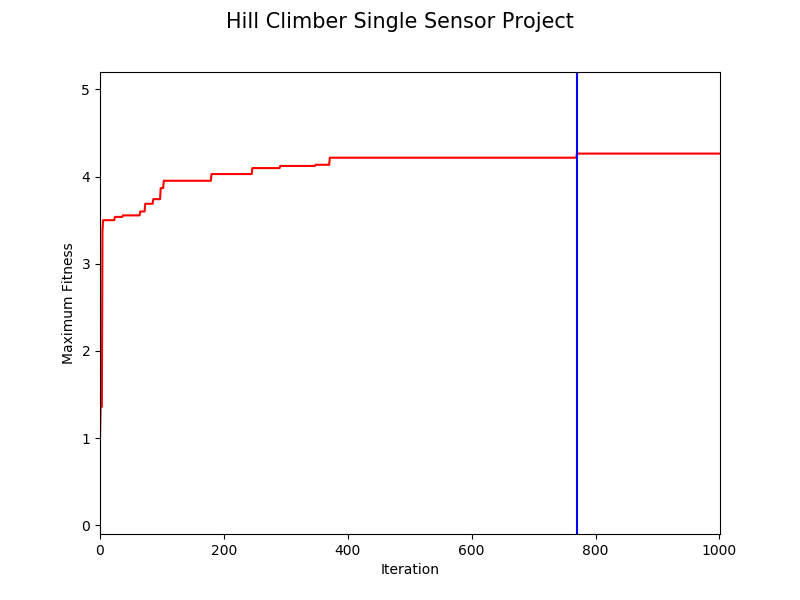
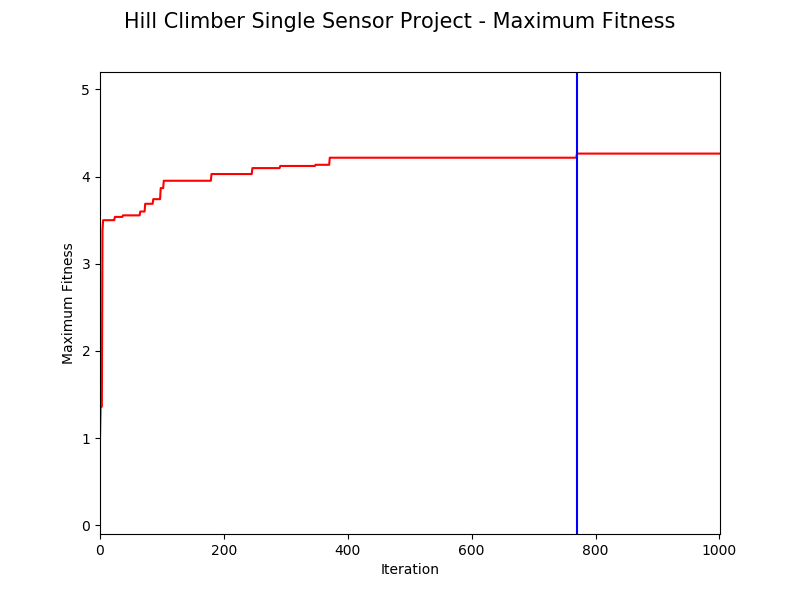
Fitness landscape plots saved for hill climbers 1 & 2 and fitness plot titles more descriptive.

Changed region(s): [[0.1562, 0.0, 0.8438, 0.06]]

diff --git a/hillclimbers/hillclimber4.py b/hillclimbers/hillclimber4.py
@@ -65,7 +65,7 @@ ymin = float(int(np.amin(fitness[:,0])*10))/10.0 - 1.0
 ymax = float(int(np.amax(fitness[:,0])*10))/10.0 + 1.0
  
 fig = plt.figure(1, figsize=(8, 6))
-fig.suptitle('Hill Climber Four Sensors Project', fontsize=15)
+fig.suptitle('Hill Climber Four Sensors Project - Fitness Landscape', fontsize=15)
 panel = fig.add_subplot(111)
 panel.set_xlabel('Genomes -- Synapse Weights')
 panel.set_ylabel('Fitness')
@@ -76,6 +76,7 @@ panel.plot(genomes[:,1], fitness[:,0], '.r', label='w1,4')
 panel.plot(genomes[:,2], fitness[:,0], '.b', label='w2,4')
 panel.plot(genomes[:,3], fitness[:,0], '.g', label='w3,4')
 panel.legend(loc='lower left', title='Genomes', frameon=False)
+plt.savefig("hillclimber4_fitness_landscape.png", format='png')
 plt.show()
 
 # Evolution of maximum fitness.
@@ -91,9 +92,9 @@ ymin = float(int(np.amin(fitness[:,0])*10))/10.0 - 1.0
 ymax = float(int(np.amax(fitness[:,0])*10))/10.0 + 1.0
 
 fig = plt.figure(2, figsize=(8, 6))
-fig.suptitle('Hill Climber Four Sensors Project', fontsize=15)
+fig.suptitle('Hill Climber Four Sensors Project - Maximum Fitness', fontsize=15)
 panel = fig.add_subplot(111)
-panel.set_xlabel('Iteration')
+panel.set_xlabel('Generation')
 panel.set_ylabel('Maximum Fitness')
 panel.set_xlim(0, nlim)
 panel.set_ylim(ymin, ymax)

diff --git a/hillclimbers/hillclimber1.py b/hillclimbers/hillclimber1.py
@@ -61,13 +61,14 @@ ymin = float(int(np.amin(fitness[0,:])*10))/10.0 - 1.0
 ymax = float(int(np.amax(fitness[0,:])*10))/10.0 + 1.0
  
 fig = plt.figure(1, figsize=(8, 6))
-fig.suptitle('Hill Climber Single Sensor Project', fontsize=15)
+fig.suptitle('Hill Climber Single Sensor Project - Fitness Landscape', fontsize=15)
 panel = fig.add_subplot(111)
 panel.set_xlabel('Genome')
 panel.set_ylabel('Fitness')
 panel.set_xlim(xmin, xmax)
 panel.set_ylim(ymin, ymax)
 panel.plot(genomes[0,:], fitness[0,:], '.r')
+plt.savefig("hillclimber1_fitness_landscape.png", format='png')
 plt.show()
 
 # Evolution of maximum fitness.
@@ -83,9 +84,9 @@ ymin = float(int(np.amin(fitness[0,:])*10))/10.0 - 1.0
 ymax = float(int(np.amax(fitness[0,:])*10))/10.0 + 1.0
 
 fig = plt.figure(2, figsize=(8, 6))
-fig.suptitle('Hill Climber Single Sensor Project', fontsize=15)
+fig.suptitle('Hill Climber Single Sensor Project - Maximum Fitness', fontsize=15)
 panel = fig.add_subplot(111)
-panel.set_xlabel('Iteration')
+panel.set_xlabel('Generation')
 panel.set_ylabel('Maximum Fitness')
 panel.set_xlim(0, nlim)
 panel.set_ylim(ymin, ymax)

diff --git a/refactoring/randomSearch.py b/refactoring/randomSearch.py
@@ -6,8 +6,10 @@ from individual import INDIVIDUAL
 import numpy as np
 import matplotlib.pyplot as plt
 
+play_blind = True
+
 tlim = 500
-nlim = 10
+nlim = 1001
 n = [i for i in range(nlim)]
 
 genomes = np.ndarray((1,nlim))
@@ -17,7 +19,7 @@ print(" i      Genome       Fitness ")
 print("---  ------------  ----------")
 for i in range(0,nlim):
     individual = INDIVIDUAL()
-    individual.Evaluate(tlim)
+    individual.Evaluate(tlim, play_blind)
     genomes[0,i] = individual.genome
     fitness[0,i] = individual.fitness
     print("%3d  %12.8f  %9.5f" % (i,genomes[0,i],fitness[0,i]))

diff --git a/quadruped/parallelhillclimber.py b/quadruped/parallelhillclimber.py
@@ -63,7 +63,7 @@ ymax = float(int(np.amax(fitness[:,:])*10))/10.0 + 1.0
 pcols = ['red', 'green', 'blue', 'cyan', 'magenta', 'orange', 'yellow', 'brown', 'gray', 'black']
 
 fig = plt.figure(1, figsize=(8, 6))
-fig.suptitle('Quadruped Parallel Hill Climber Project', fontsize=15)
+fig.suptitle('Quadruped Parallel Hill Climber Project - Maximum Fitness', fontsize=15)
 panel = fig.add_subplot(111)
 panel.set_xlabel('Generation')
 panel.set_ylabel('Maximum Fitness')

diff --git a/quadruped/geneticAlgorithm.py b/quadruped/geneticAlgorithm.py
@@ -64,7 +64,7 @@ ymax = float(int(np.amax(fitness[:,:])*10))/10.0 + 1.0
 pcols = ['red', 'green', 'blue', 'cyan', 'magenta', 'orange', 'yellow', 'brown', 'gray', 'black']
 
 fig = plt.figure(1, figsize=(8, 6))
-fig.suptitle('Quadruped Genetic Algorithm Project', fontsize=15)
+fig.suptitle('Quadruped Genetic Algorithm Project - Maximum Fitness', fontsize=15)
 panel = fig.add_subplot(111)
 panel.set_xlabel('Generation')
 panel.set_ylabel('Maximum Fitness')

diff --git a/refactoring/individual.py b/refactoring/individual.py
@@ -13,9 +13,9 @@ class INDIVIDUAL:
         self.fitness = 0.0
         self.tlim = 0
     
-    def Evaluate(self, tlim):
+    def Evaluate(self, tlim, pb):
         self.tlim = tlim
-        sim = pyrosim.Simulator( play_paused=False, eval_time=tlim)
+        sim = pyrosim.Simulator( play_paused=False, eval_time=tlim, play_blind=pb)
         robot = ROBOT(sim, self.genome)
         sim.start()
         sim.wait_to_finish()

diff --git a/hillclimbers/parallelhillclimber.py b/hillclimbers/parallelhillclimber.py
@@ -60,7 +60,7 @@ ymax = float(int(np.amax(fitness[:,:])*10))/10.0 + 1.0
 pcols = ['red', 'green', 'blue', 'cyan', 'magenta']
 
 fig = plt.figure(1, figsize=(8, 6))
-fig.suptitle('Parallel Hill Climber Four Sensors Project', fontsize=15)
+fig.suptitle('Parallel Hill Climber Four Sensors Project - Maximum Fitness', fontsize=15)
 panel = fig.add_subplot(111)
 panel.set_xlabel('Generation')
 panel.set_ylabel('Maximum Fitness')
